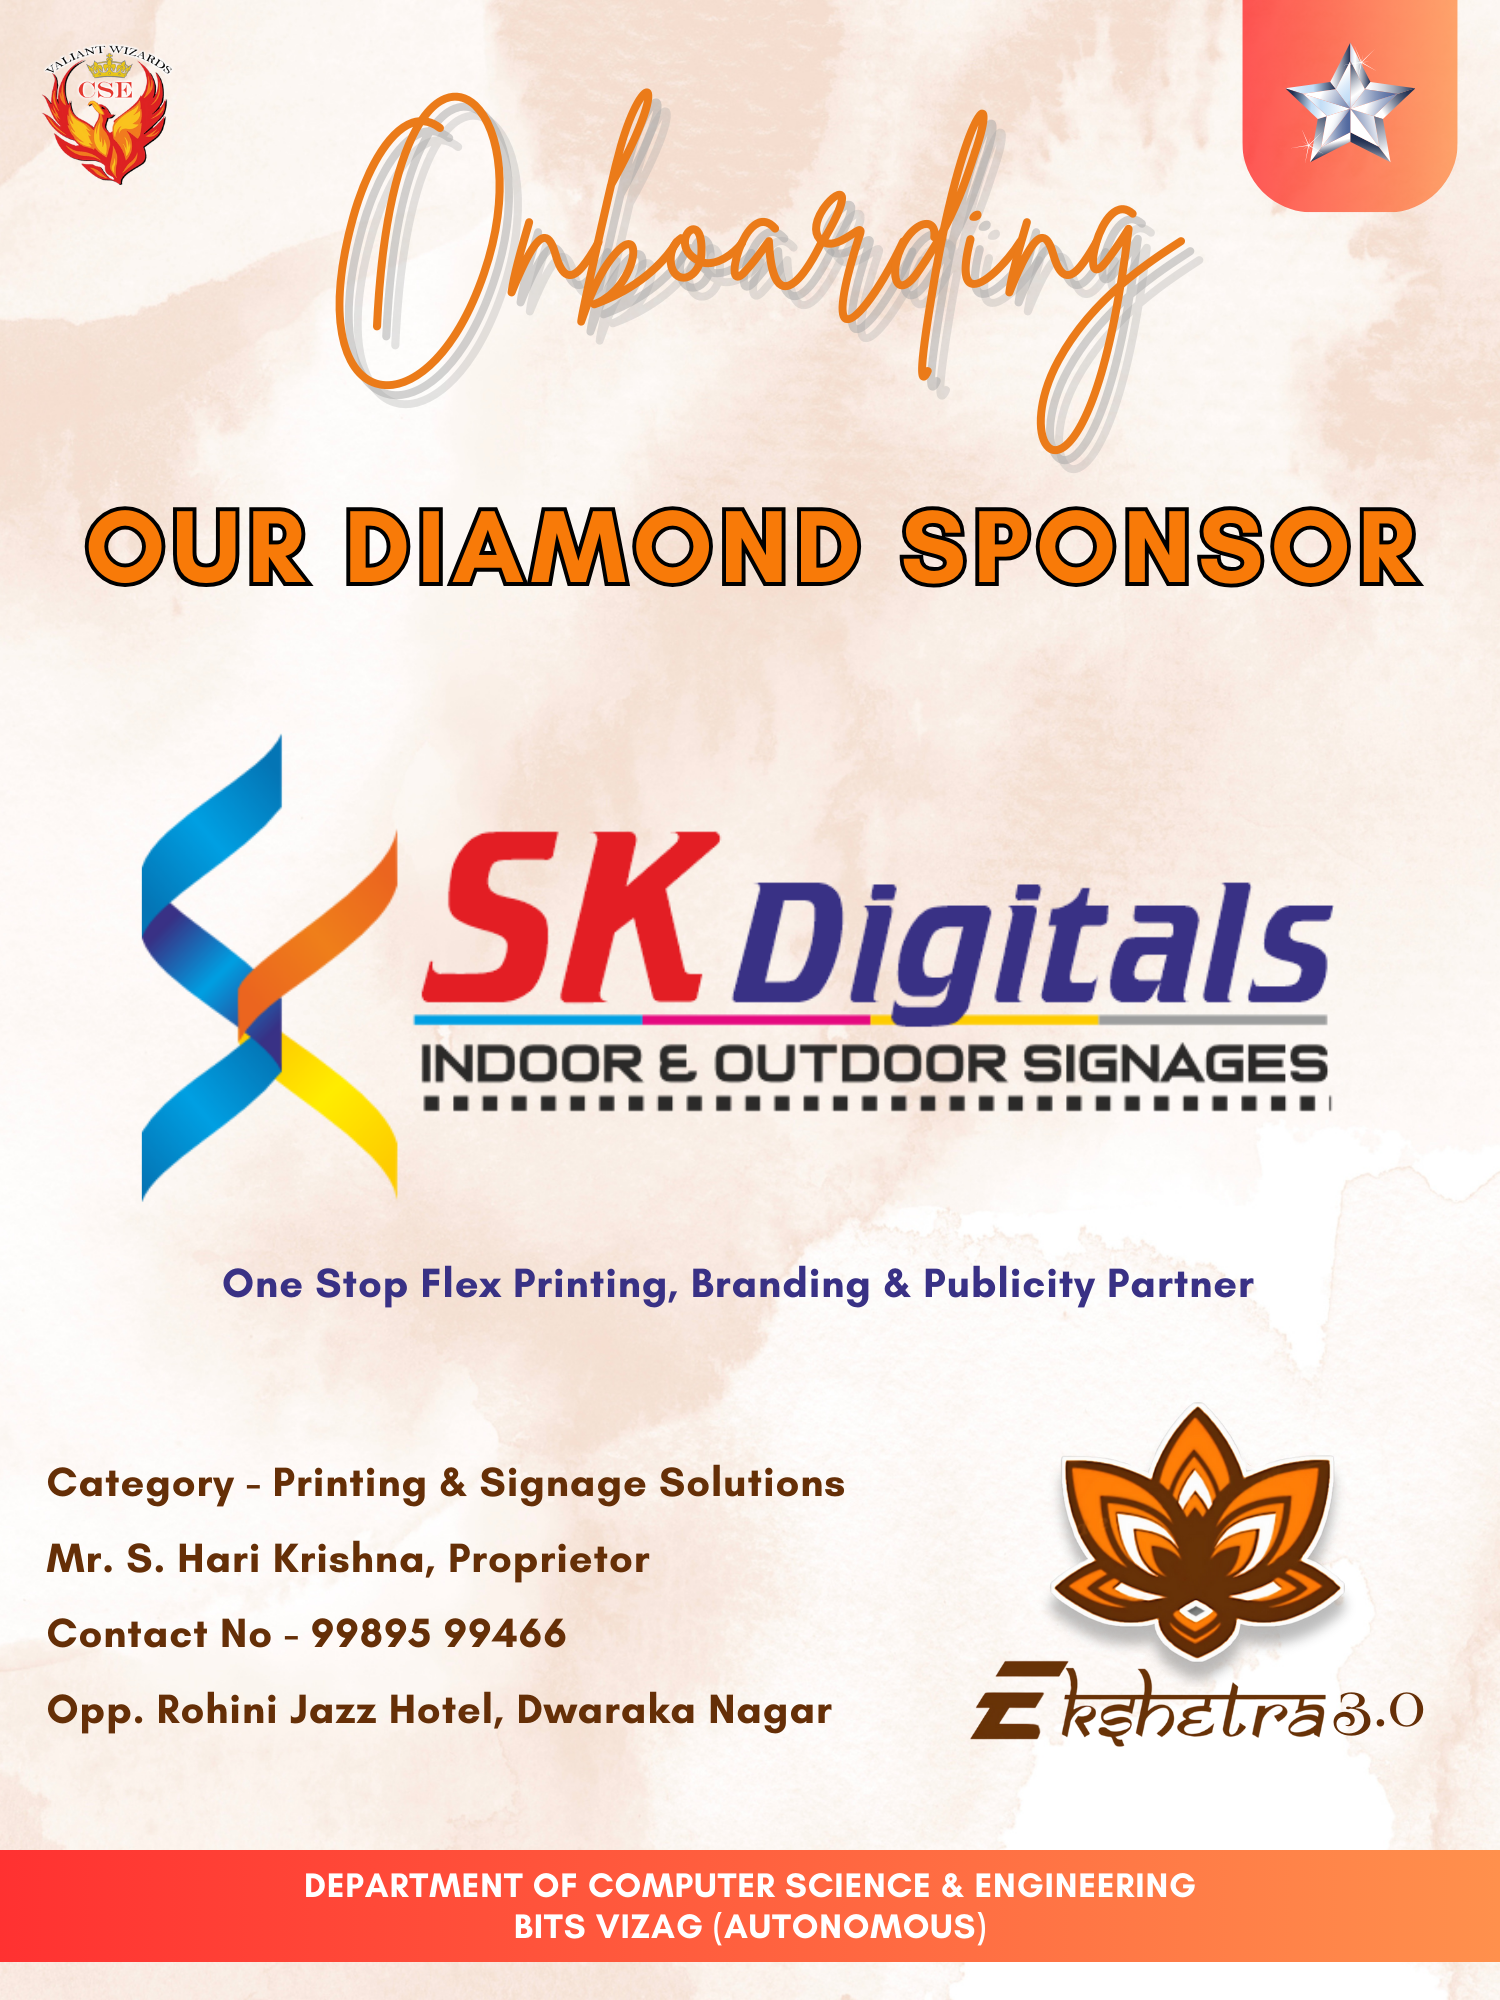
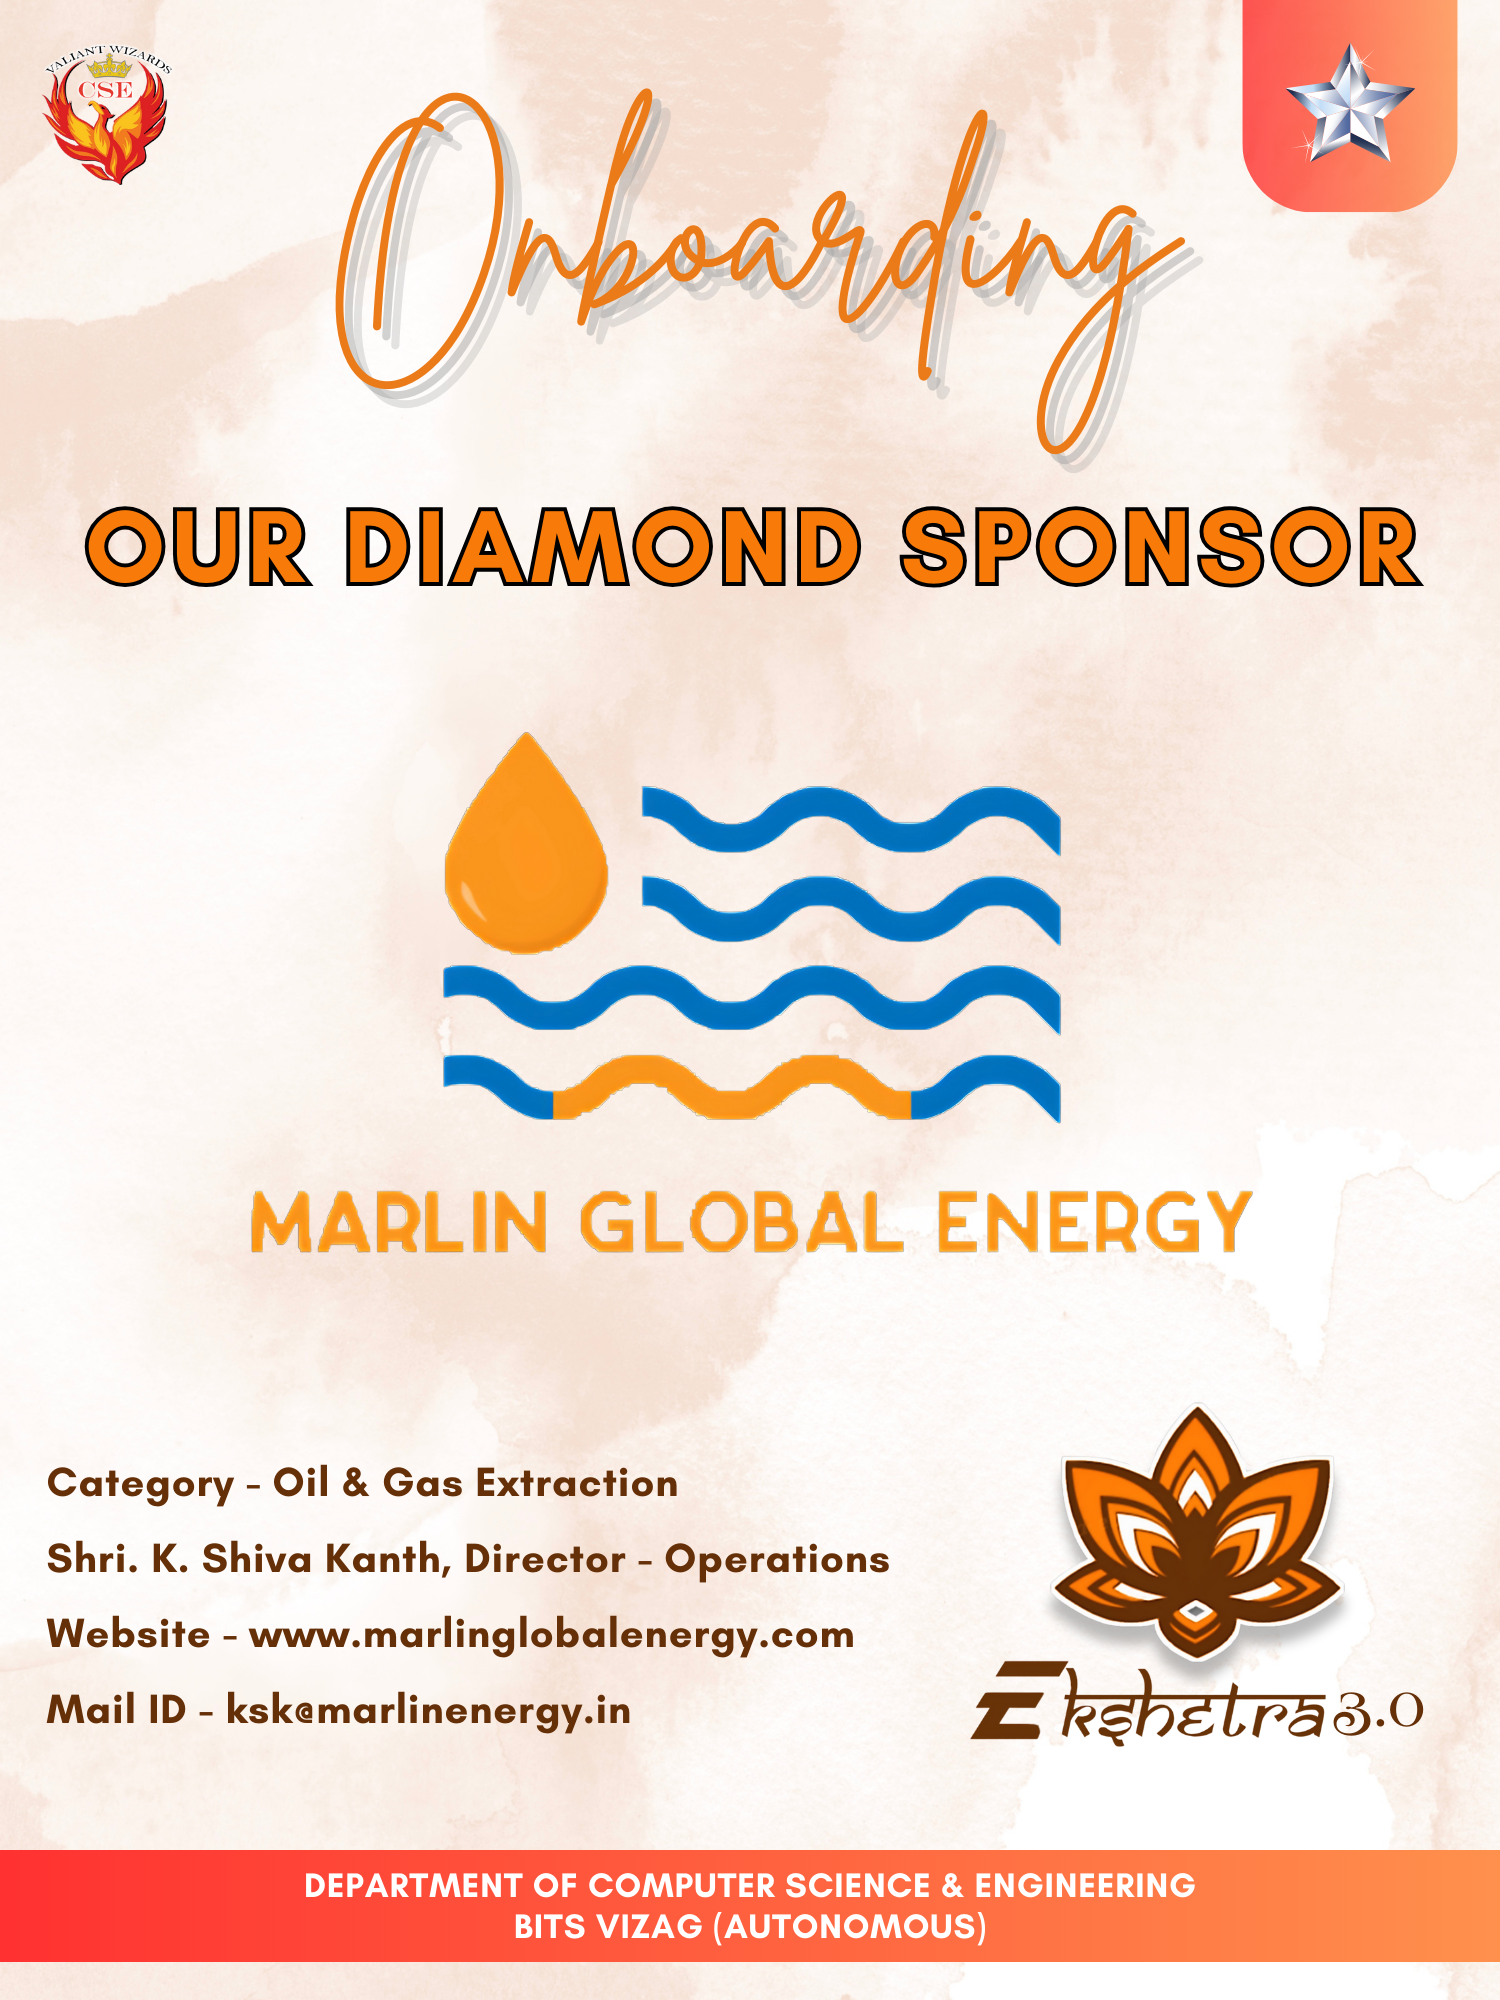
added new sponsor

Changed region(s): [[0.092, 0.372, 0.8893, 0.651], [0.0307, 0.713, 0.5827, 0.868]]

diff --git a/src/routes/sponsors/+page.svelte b/src/routes/sponsors/+page.svelte
@@ -13,7 +13,7 @@ export let showArrows = true;
 export let showThumbnails = true;
 
 // State management
-let sponsors = Array.from({ length: 15 }, (_, i) => ({
+let sponsors = Array.from({ length: 16 }, (_, i) => ({
   id: i + 1,
   image: `/sponsors/${i + 1}.png`,
   name: `Sponsor ${i + 1}`
